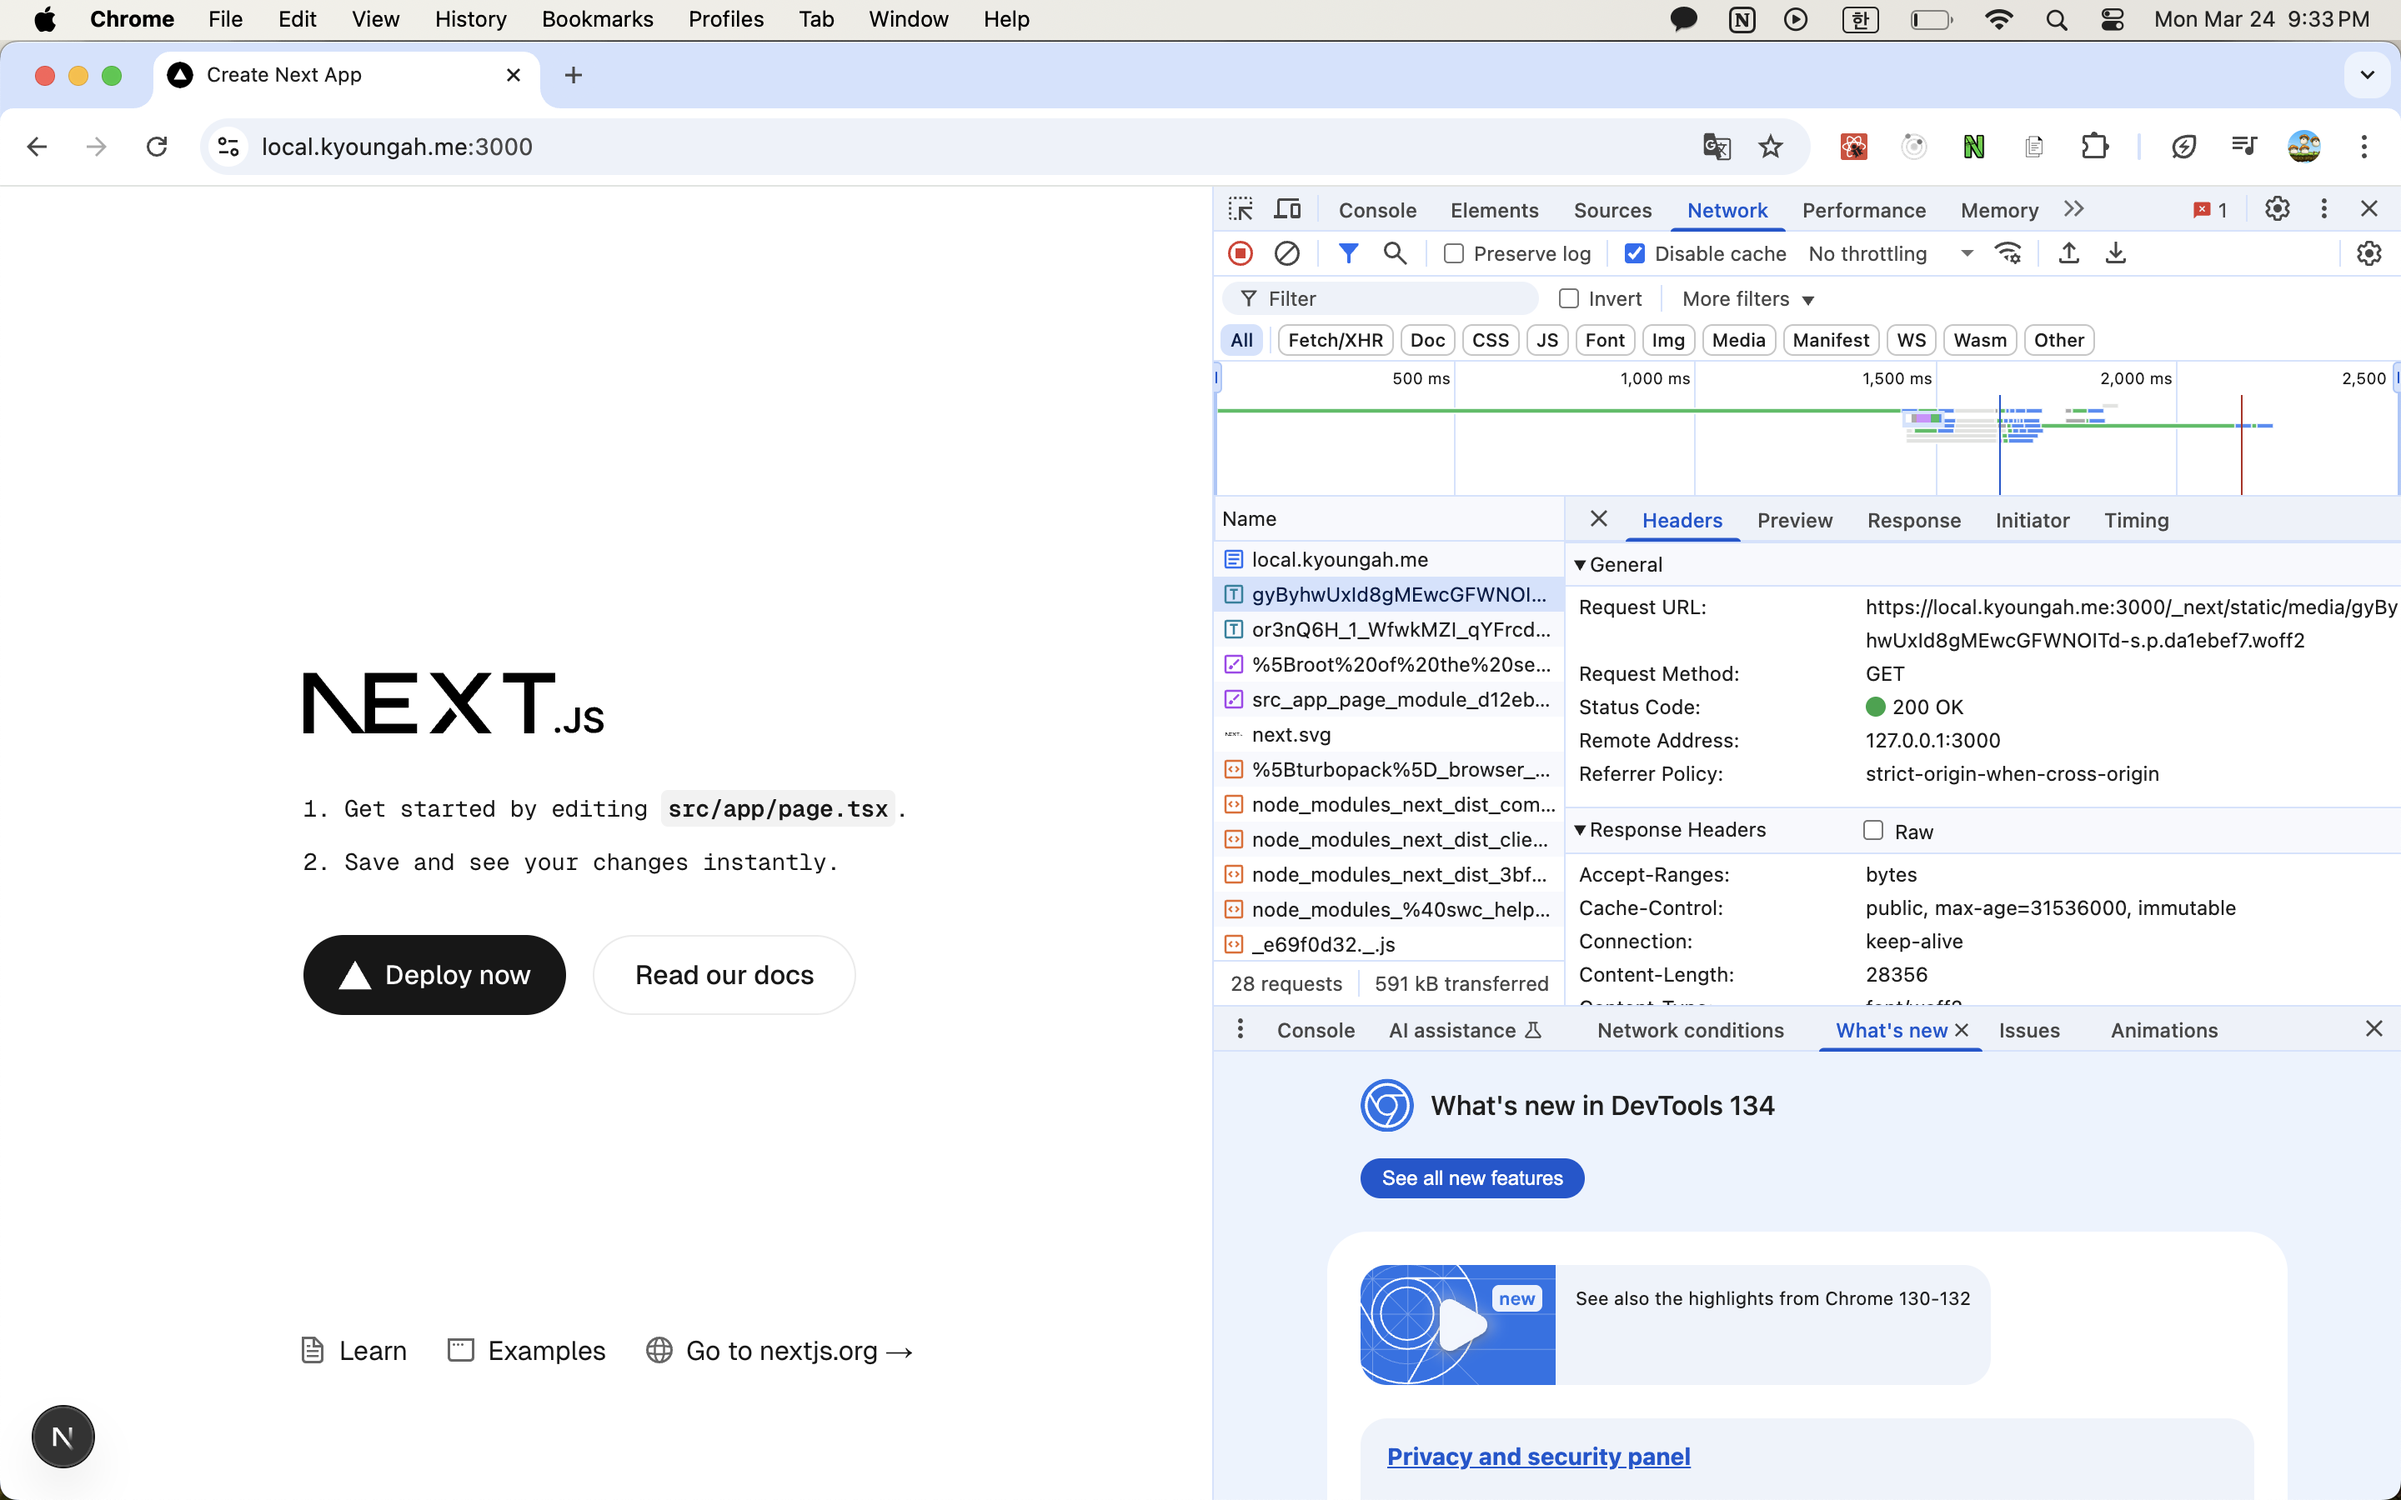
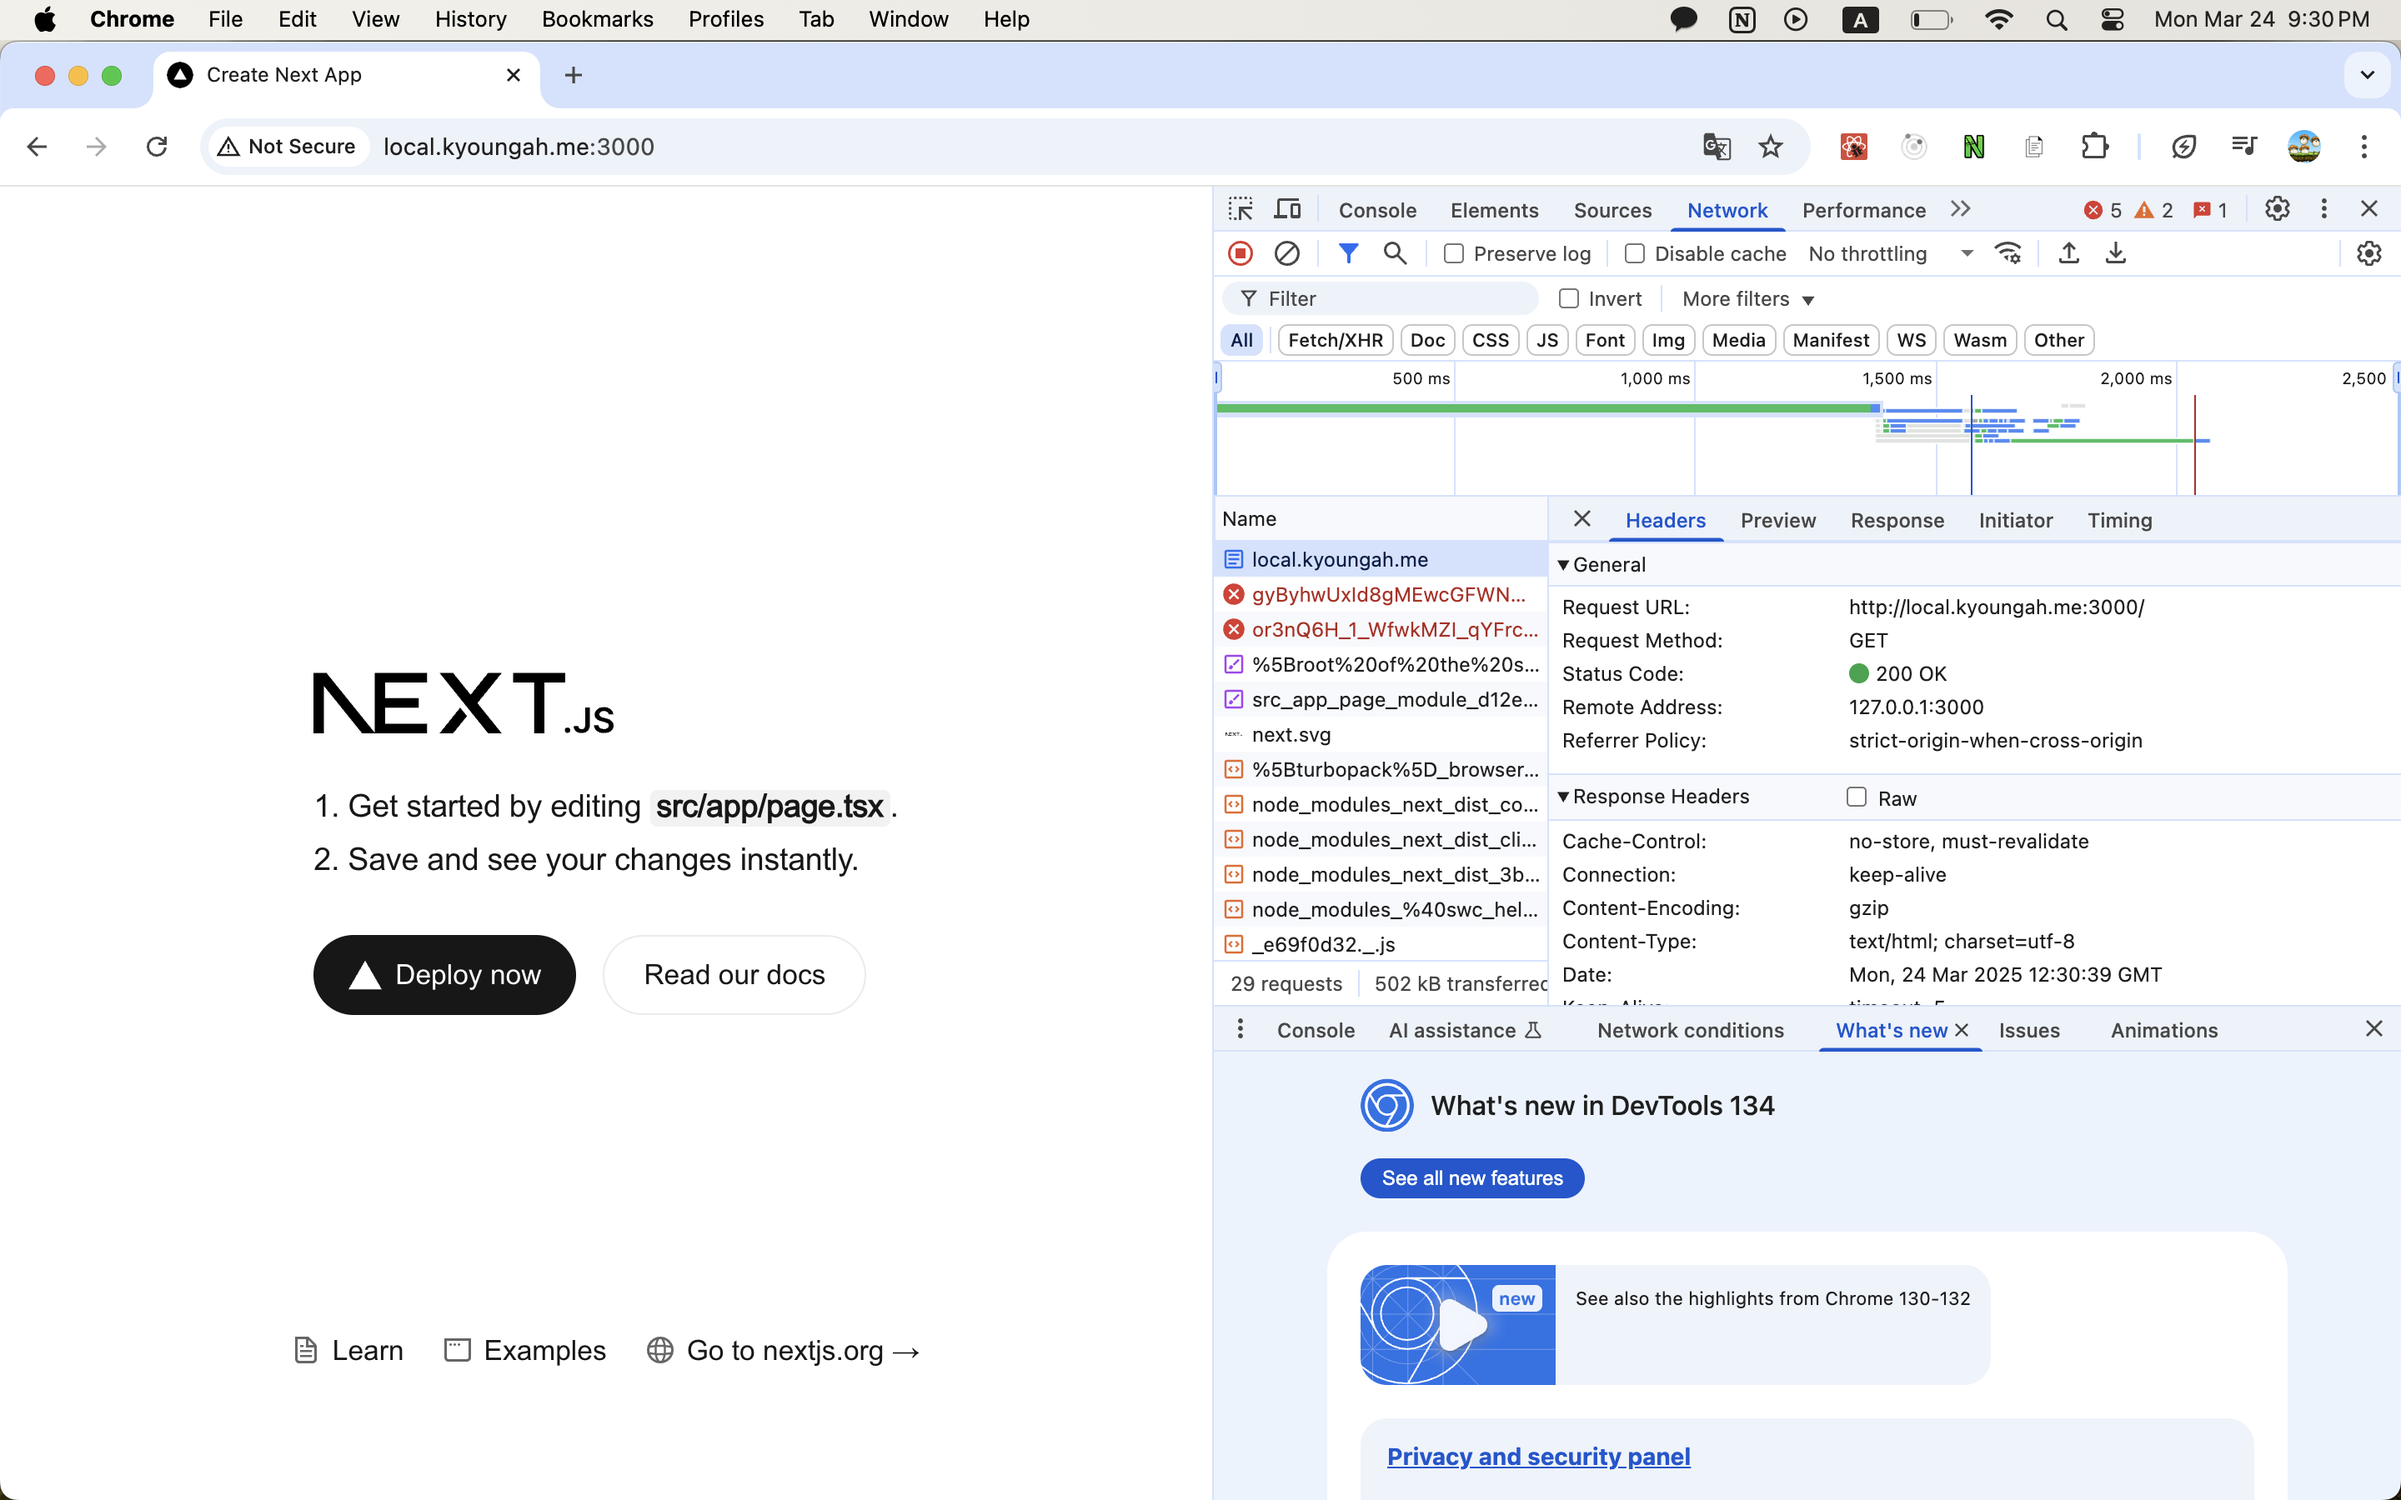
feat: Next.js App Router에서 로컬 HTTPS 설정하기 문서 추가
- 로컬 개발환경에서 HTTPS 환경 구축 경험 공유
- 쿠키 설정 이슈 및 원인 분석
- HTTPS 환경 구축을 위한 mkcert 사용법 설명
- localhost 도메인 변경 방법 안내
- Next.js 15에서의 변경 사항 및 해결 방법 기술

diff --git a/apps/dev/posts/Next.js-App-Router에서-로컬-HTTPS-설정하기.md b/apps/dev/posts/Next.js-App-Router에서-로컬-HTTPS-설정하기.md
@@ -1,0 +1,153 @@
+---
+title: Next.js App Router에서 로컬 HTTPS 설정하기
+date: 2024-11-10 14:31:26
+tags: ['Next.js']
+publish: true
+---
+
+Next.js로 어드민을 신규 개발하면서 로컬 환경에 HTTPS 환경을 구축한 경험을 공유하고자 한다.
+
+회사 프로젝트는 Mac(M1)에서 Next.js 14 App Router 버전으로 진행되었으며, 이 글을 작성하며 생성한 프로젝트는 Mac(M1)에서 Next.js 15 App Router 버전으로 진행되었다. 마지막에 next.config.js 설정 관련 부분을 제외하면 두 버전은 차이가 없다.
+
+## 이슈 발생 배경
+
+아이디와 비밀번호를 입력한 후 이를 API 서버에 전송한 후 API 서버가 발급해준 쿠키를 웹 브라우저에 설정하는 작업을 진행하고 있었다. 쿠키를 가지고 오는 것 까지는 문제가 없었는데 개발자 도구를 확인해보면 쿠키가 브라우저에 저장이 되지 않고 있었다.
+
+## 이슈 원인 파악
+
+![쿠키 경고 메시지 확인](/images/posts/Next.js-App-Router-로컬-개발환경에서-HTTPS-환경-구축하기-2.png)
+개발자 도구 네트워크 탭에서 response를 확인해보니 쿠키 옆에 warning 표시가 떠 있는걸 볼 수 있었는데 마우스를 갖다대니 메시지가 보였다.
+
+```
+the attempt to set a cookie via set-cookie header was blocked because its domain attribute was invalid with regards to the current host url
+```
+
+쿠키의 Domain 속성이 현재 요청을 보낸 호스트 URL과 호환되지 않아 warning과 함께 쿠키가 브라우저에 저장이 되지 않은 것이었다.
+
+### 쿠키 속성
+
+백엔드 코드에서 쿠키 설정을 확인해보니 아래와 같았다.
+
+```json
+{
+    httpOnly: true,
+    domain: NODE_ENV !== "local" ? ".domain.example" : "localhost",
+    secure: NODE_ENV !== "local",
+    maxAge: 1000 * 60 * 60,
+    sameSite: "none",
+    path: "/",
+  }
+```
+
+위의 쿠키 속성을 살펴보자.
+
+- HttpOnly: JavaScript를 통해 쿠키 값에 접근하는 것을 막는다.
+  - true 이므로 JavaScript를 통해 쿠키 값에 접근할 수 없다.
+- Domain: 해당 쿠키가 어느 도메인(및 서브도메인)에 대해 유효한지를 지정한다.
+  - API 서버가 개발서버에 배포되었기 때문에 domain.example 도메인과 모든 하위 도메인(api.domain.example, www.domain.example 등)에서 쿠키가 사용된다.
+- Secure: HTTPS 연결을 통해서만 쿠키가 전송되도록 보장한다.
+  - 마찬가지로 https 연결을 통해사면 쿠키가 전송된다.
+- MaxAge: 쿠키의 유효 시간을 설정한다.
+  - 회사 코드 보안상의 이유로 임시로 밀리초(milliseconds) 단위로 설정했는데 일반적으로는 초(second) 단위로 설정하는 경우가 많다.
+- SameSite: 쿠키가 크로스 사이트 요청 시 어떻게 전송될지를 제어한다.
+  - none 속성은 모든 크로스 사이트 요청에 쿠키가 전송되도록 허용하지만, 이 경우 secure 옵션이 true여야 한다
+- Path: 쿠키가 전송될 경로를 지정한다.
+  - "/"로 설정되어 있으므로, 사이트 내 모든 경로에서 쿠키가 포함되어 전송된다.
+
+### 도메인 불일치
+
+![어드민 작업 환경](/images/posts/Next.js-App-Router-로컬-개발환경에서-HTTPS-환경-구축하기-1.png)
+api에서 Next.js Api Route로 쿠키를 가지고 오는 것 까지는 이슈가 없었으나 Next.js Api Route의 url이 http://localhost:3000/login/api 였기 때문에 api 도메인과 일치하지 않아 쿠키가 브라우저에 저장되지 않는 걸 알 수 있었다.
+
+로컬 환경에서 쿠키를 브라우저에 저장하려면 다음 두 가지 조건이 충족되어야 했다.
+
+1. HTTPS 환경이 설정되어 있어야 한다.
+2. API 도메인과 프론트엔드 도메인이 일치하도록 구성해야 한다.
+
+## 이슈 해결 과정
+
+### localhost 도메인 이름 변경
+
+Host 파일은 컴퓨터의 운영 체제에서 사용되는 텍스트 파일로, 도메인 이름과 IP 주소를 매핑하는 역할을 한다. 네트워크 요청 시 DNS 서버를 거치지 않고 직접 매핑된 IP 주소를 사용하기 때문에 로컬 환경에서 테스트하거나 특정 도메인을 임시로 변경하는 데 유용하다.
+
+Host 파일에서 localhost의 도메인 이름 api 도메인에 맞춰 변경해주자.
+
+```
+sudo vi /private/etc/hosts
+```
+
+Mac(M1) 에서는 터미널을 실행한 후 위의 명령어로 hosts 파일을 열 수 있다.
+
+```
+127.0.0.1 local.kyoungah.me
+```
+
+![host 파일 편집](/images/posts/Next.js-App-Router-로컬-개발환경에서-HTTPS-환경-구축하기-6.png)
+
+마지막 줄에 IP와 원하는 도메인 주소를 입력하면 도메인 변경은 완료다.
+
+![위에서 설정한 도메인으로 출력](/images/posts/Next.js-App-Router-로컬-개발환경에서-HTTPS-환경-구축하기-3.png)
+
+### localhost에서 HTTPS 허용하기
+
+다음으로 HTTP에서 동작하는 localhost를 HTTPS로 동작하게끔 해줘야 한다.
+
+HTTP에는 도청, 위장, 변조 등의 취약점이 있다. 이를 보완하기 위해 SSL(보안 소켓 계층) 또는 TLS(전송 계층 보안) 인증서를 사용하여 HTTP 통신 내용을 암호화 한다. 이러한 기술을 활용한 HTTP가 바로 HTTPS(HTTP Secure)이다.
+
+따라서 HTTPS 환경을 구축하기 위해서는 SSL 또는 TLS 인증서가 필수적이다.
+
+```
+brew install mkcert
+```
+
+[mkcert](https://github.com/FiloSottile/mkcert)를 사용하면 로컬에서 신뢰할 수 있는 개발 인증서를 만들 수 있다. 없으면 먼저 설치해주자.
+
+```
+mkcert "*.kyoungah.me"
+```
+
+mkcert 명령어를 사용하여 원하는 도메인을 위한 SSL인증서를 생성한다.
+pem, -key.pem 2개의 파일이 생성되고 해당 파일을 ssl인증서로 사용하면 된다.
+
+```
+mkcert "*.kyoungah.me" localhost 127.0.0.1
+```
+
+여러개의 도메인에 유효한 인증서도 생성할 수 있다.
+
+[next dev 옵션](https://nextjs.org/docs/app/api-reference/cli/next)을 보면 `--experimental-https`, `--experimental-https-key`, `--experimental-https-cert` 라는 옵션이 있다.
+
+- --experimental-https는 HTTPS로 서버를 실행하게끔 해준다.
+  - --experimental-https-key, --experimental-https-cert 옵션 없이 실행하면 자동으로 localhost SSL 인증서를 생성한다.
+- --experimental-https-key는 HTTPS 키 파일의 경로이다.
+- --experimental-https-cert는 HTTPS 인증서 파일의 경로이다.
+
+```
+next dev --experimental-https --experimental-https-key _wildcard.kyoungah.me+3-key.pem --experimental-https-cert _wildcard.kyoungah.me+3.pem
+```
+
+위에서 생성한 인증서 및 키 파일의 경로와 함께 옵션을 입력하고개발 서버를 실행한다.
+
+![https 환경 성공](/images/posts/Next.js-App-Router-로컬-개발환경에서-HTTPS-환경-구축하기-4.png)
+이제 HTTPS로 로컬 서버를 띄울 수 있다!
+
+### Next.js 15
+
+추가로 Next.js 15에서는 바뀐 url로 인해 next/font에서 호출하는 폰트가 제대로 불러지지 않는 이슈가 있다.
+
+```
+import type { NextConfig } from "next";
+
+const nextConfig: NextConfig = {
+  /* config options here */
+  allowedDevOrigins: ["*.kyoungah.me"],
+};
+
+export default nextConfig;
+
+```
+
+![https 환경 성공](/images/posts/Next.js-App-Router-로컬-개발환경에서-HTTPS-환경-구축하기-5.png)
+
+next.config.js 파일에 allowedDevOrigins를 추가해주면 해결 된다.
+Next.js 14 버전에서는 위의 작업을 따로 해주지 않아도 이슈가 발생하지 않는다.

diff --git a/apps/dev/posts/2019-07-04-blog-migration.md b/apps/dev/posts/2019-07-04-blog-migration.md
@@ -55,7 +55,7 @@ yarn add typescript @types/react @types/react-dom gatsby-plugin-typescript @type
 
 ### gatsby-config.js
 
-```js
+```javascript
 module.exports = {
   // 생략...
 
@@ -79,7 +79,7 @@ yarn add gatsby-plugin-styled-components styled-components babel-plugin-styled-c
 
 ### gatsby-config.js
 
-```js
+```javascript
 module.exports = {
   // 생략...
   plugins: [
@@ -116,7 +116,7 @@ yarn add gatsby-source-filesystem gatsby-transformer-remark
 
 markdown 파일에서 가져온 정보를 뿌려주기 위한 템플릿을 만들어주자.
 
-```js
+```javascript
 // 생략...
 
 export default function Template({
@@ -158,7 +158,7 @@ export const pageQuery = graphql`
 
 ### gatsby-config.js
 
-```js
+```javascript
 module.exports = {
   // 생략...
 
@@ -181,7 +181,7 @@ module.exports = {
 
 gatsby는 Node API를 사용하여 정적페이지를 생성한다. 이 API를 사용하기 위해서는 gatsby-node.js 파일에서 설정이 필요하다.
 
-```js
+```javascript
 const path = require(`path`);
 const { createFilePath } = require("gatsby-source-filesystem");
 
@@ -249,7 +249,7 @@ yarn add gatsby-remark-prismjs prismjs
 
 ### gatsby-config.js
 
-```js
+```javascript
 module.exports = {
   // 생략...
   plugins: [
@@ -281,7 +281,7 @@ module.exports = {
 
 원하는 highlight 테마가 있으면 gatsby-browser 파일에다가 import 해주면된다.
 
-```js
+```javascript
 /**
  * Implement Gatsby's Browser APIs in this file.
  *
@@ -299,7 +299,7 @@ gatsby-cli로 생성된 프로젝트를 보면 SEO 컴포넌트가 있다. markd
 
 ### SEO.tsx
 
-```js
+```javascript
 // 생략...
 
 const SEO: React.SFC<SEOProps> = ({ description, title, url }) => {

diff --git a/apps/dev/posts/2019-07-21-blog-migration-2.md b/apps/dev/posts/2019-07-21-blog-migration-2.md
@@ -23,7 +23,7 @@ yarn add gatsby-plugin-disqus
 
 plugins에 gatsby-plugin-disqus를 추가해주자.
 
-```js
+```javascript
 module.exports = {
   // 생략...
   plugins: [
@@ -42,7 +42,7 @@ module.exports = {
 
 포스트에 관련된 정보를 blogTemplate 컴포넌트에서 호출하고 있기 때문에 여기에 댓글 컴포넌트를 삽입하기로 했다. query문 호출 부분에 id를 호출 할 수 있도록 추가해주었고 gatsby-plugin-disqus의 Disqus 컴포넌트를 사용하여 아주 쉽게 댓글 영역을 추가해주었다.
 
-```js
+```javascript
 import React from "react";
 import { graphql } from "gatsby";
 import styled, { theme } from "../styledComponents";
@@ -97,7 +97,7 @@ yarn add gatsby-remark-katex katex
 
 ### gatsby-config.js
 
-```js
+```javascript
 module.exports = {
   // 생략...
   plugins: [
@@ -130,7 +130,7 @@ module.exports = {
 yarn add gatsby-plugin-google-analytics
 ```
 
-```js
+```javascript
 module.exports = {
   // 생략 ...
   plugins: [
@@ -159,7 +159,7 @@ yarn add gatsby-plugin-feed
 
 여러가지 옵션들을 추가할 수 있으나 뭐가 뭔지 잘 몰라서 일단 기본으로만 설정해두었다. 추후에 필요한 부분이 있으면 옵션을 추가하여 커스터마이징 할 생각이다.
 
-```js
+```javascript
 module.exports = {
   // 생략 ...
   plugins: [

diff --git a/apps/dev/posts/2020-03-18-json-web-token.md b/apps/dev/posts/2020-03-18-json-web-token.md
@@ -93,7 +93,7 @@ HMACSHA256(
 
 이 서명은 메시지가 도중에 바뀌지는 않았는지 인증하는데 사용되며 비밀키로 서명된 토큰의 경우 발신자도 인증할 수 있다.
 
-![JWT Example](/images/posts/json-web-token-1.png)
+![JWT Example](/images/backend/json-web-token-1.png)
 Header 인코딩값, Payload 인코딩값, 서명을 .로 구분하면서 모두 합치면 JWT 토큰이 완성된다.
 
 [JWT 공식 사이트](https://jwt.io/)에서 JWT 토크를 생성 및 확인해볼 수 있다.
